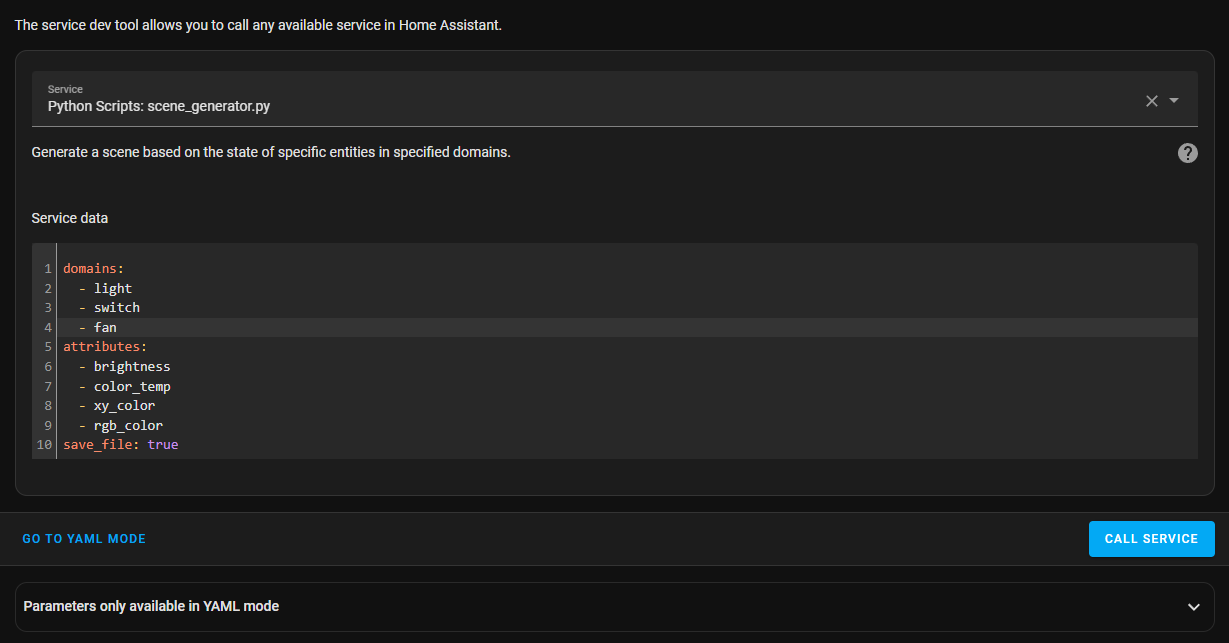
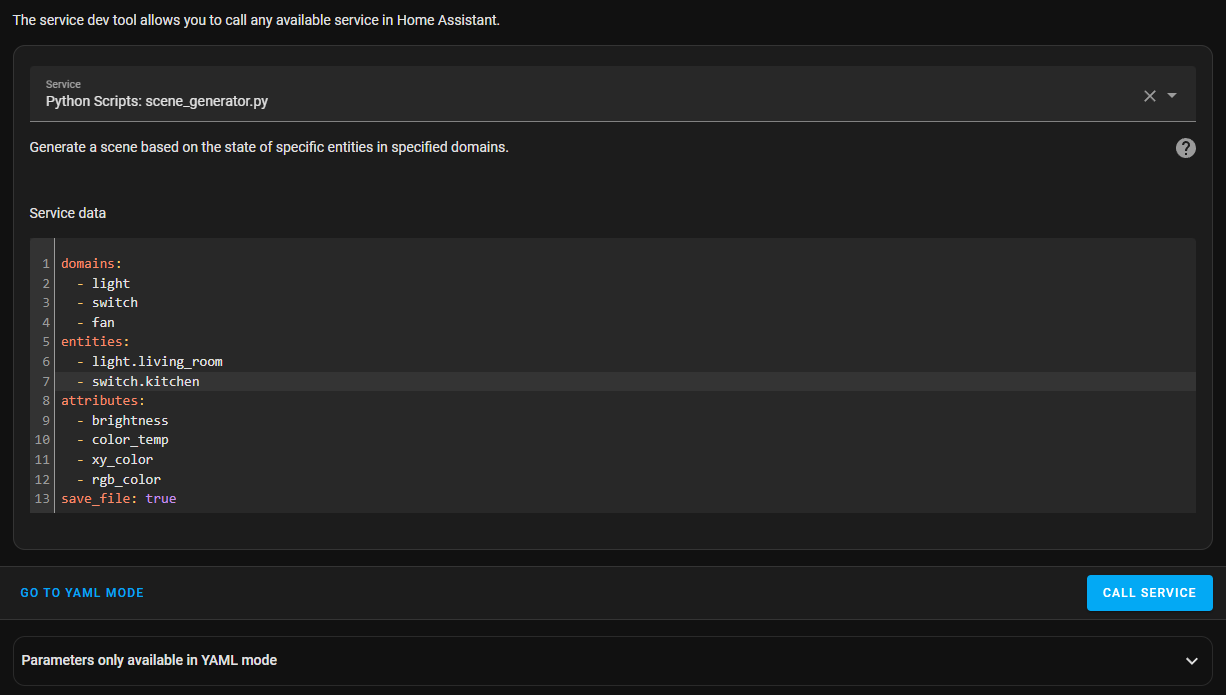
Allow user to specify entity IDs directly

diff --git a/scene_generator.py b/scene_generator.py
@@ -6,16 +6,29 @@ def format_entity_status(entity, status, attributes):
                        for attribute in attributes if status.attributes.get(attribute)]
     return f"{entity}:\n  state: {status.state}\n" + "".join(attribute_texts) + "\n"
 
-def process_domain(domain, attributes):
-    text_lines = [format_header(domain)]
-    entities = hass.states.entity_ids(domain)
+def process_entities(entities, attributes):
+    text_lines = []
     for entity_id in entities:
         entity_status = hass.states.get(entity_id)
         text_lines.append(format_entity_status(entity_id, entity_status, attributes))
     return "".join(text_lines)
 
+def process_domain(domain, attributes):
+    text_lines = [format_header(domain)]
+    entities = hass.states.entity_ids(domain)
+    text_lines.append(process_entities(entities, attributes))
+    return "".join(text_lines)
+
 def process_domains(domains, attributes):
+    if not domains:
+        return ""
     return "".join(process_domain(domain, attributes) for domain in domains)
+
+def process_input(domains, entities, attributes):
+    if entities:
+        return process_entities(entities, attributes)
+    else:
+        return process_domains(domains, attributes)
 
 def export_results(text, save_file):
     if save_file:
@@ -24,8 +37,9 @@ def export_results(text, save_file):
         logger.info(text)
 
 domains = data.get('domains', ['light','switch','fan'])
+entities = data.get('entities')
 attributes = data.get('attributes', ['brightness','color_temp','xy_color','rgb_color'])
 save_file = data.get('save_file')
 
-text = process_domains(domains, attributes)
+text = process_input(domains, entities, attributes)
 export_results(text, save_file)

diff --git a/README.md b/README.md
@@ -19,6 +19,8 @@ Here's how it works:
 3. If you set `save_file` to false, go to the Home Assistant logs to copy the generated YAML for the scene.
 4. If you set `save_file` to true, go to your configuration folder and open `generated_scene.yaml`.
 
+This script allows you to specify either domains or entities directly. If both domains and entities are defined, the script will prioritize entities over domains.
+
 ### EXAMPLE SERVICE DATA
 
 ![example service call](https://github.com/sunnythaper/python_scripts/raw/master/readme-assets/service_call.png)
@@ -28,6 +30,9 @@ domains:
   - light
   - switch
   - fan
+entities:
+  - light.living_room
+  - switch.kitchen
 attributes:
   - brightness
   - color_temp
@@ -36,7 +41,7 @@ attributes:
 save_file: true
 ```
 
-In this example, we're generating a scene for all light, switch, and fan entities, and including brightness, color temperature, and color attributes.
+In this example, we're generating a scene for all light, switch, and fan entities defined in the domains, as well as specifically for `light.living_room` and `switch.kitchen` entities. It includes brightness, color temperature, and color attributes. If both domains and entities are defined, the script will process only the entities and ignore the domains.
 
 ### FILE SAVING
 
